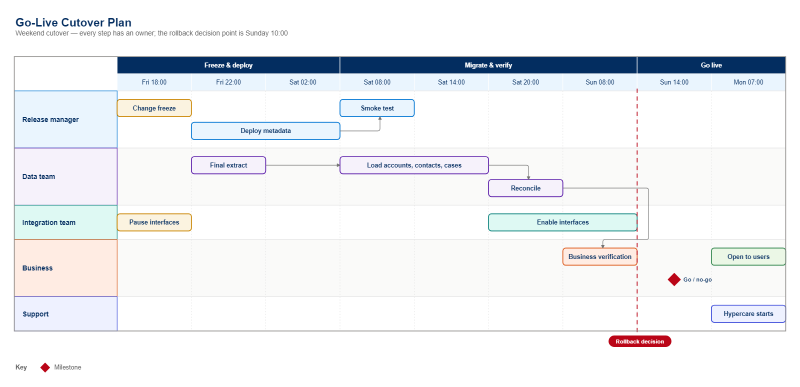
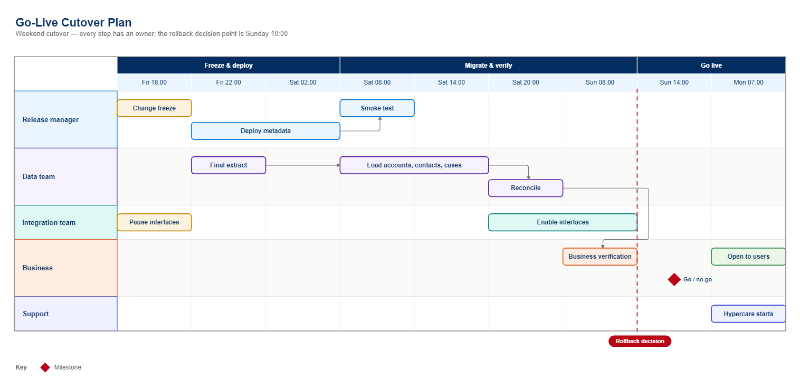
Site: archistry setup in install steps and agent tabs, header card and notation copy, phone previews for 9 types

diff --git a/index.html b/index.html
@@ -131,7 +131,7 @@
       <p class="lede">Built for Salesforce architects, business analysts and consultants.</p>
     </div>
     <div class="what-grid">
-      <article class="card what"><span class="what__n" aria-hidden="true">01</span><span class="ico" data-lottie="grid"><svg aria-hidden="true"><use href="#i-grid"/></svg></span><h3>Draw 49 diagram types</h3><p>From stakeholder maps to cutover plans, in the notation Salesforce teams use.</p><span class="what__tag">49 types · 11 layout engines</span></article>
+      <article class="card what"><span class="what__n" aria-hidden="true">01</span><span class="ico" data-lottie="grid"><svg aria-hidden="true"><use href="#i-grid"/></svg></span><h3>Draw 49 diagram types</h3><p>From stakeholder maps to cutover plans, with Salesforce Architects header cards and data-model notation.</p><span class="what__tag">49 types · 11 layout engines</span></article>
       <article class="card what"><span class="what__n" aria-hidden="true">02</span><span class="ico" data-lottie="edit"><svg aria-hidden="true"><use href="#i-pen"/></svg></span><h3>Edit in draw.io or the browser</h3><p>Each diagram is two files that convert into each other without loss.</p><span class="what__tag">.drawio + .html</span></article>
       <article class="card what"><span class="what__n" aria-hidden="true">03</span><span class="ico" data-lottie="image"><svg aria-hidden="true"><use href="#i-image"/></svg></span><h3>Export PNG, JPG and SVG</h3><p>Images for Word, Confluence, Google Docs and slides.</p><span class="what__tag">1× to 4× print</span></article>
       <article class="card what"><span class="what__n" aria-hidden="true">04</span><span class="ico" data-lottie="shield"><svg aria-hidden="true"><use href="#i-shield"/></svg></span><h3>Check every build</h3><p>Overlaps, lines through boxes and clipped labels fail the build.</p><span class="what__tag">Fails on overlap</span></article>
@@ -346,9 +346,10 @@
     </div>
     <div class="grid install-grid">
       <div class="panel" style="grid-column: span 5">
-        <h3 class="panel__t">Three steps</h3>
+        <h3 class="panel__t">Four steps</h3>
         <ol class="steps">
           <li class="step"><div><h3>Add the skill</h3><p>One command installs it into your agent. Update it the same way.</p></div></li>
+          <li class="step"><div><h3>Make it the default</h3><p>Run <code>archistry setup</code> once per project. It adds a short rule to CLAUDE.md, Copilot, AGENTS.md, Gemini, Cursor or Windsurf instructions.</p></div></li>
           <li class="step"><div><h3>Describe the diagram</h3><p>Name the type, the systems and who it is for.</p></div></li>
           <li class="step"><div><h3>Open the result</h3><p>Edit the HTML in your browser or the .drawio in draw.io.</p></div></li>
         </ol>
@@ -369,12 +370,14 @@
       <div class="faq-grid">
         <div>
           <details class="faq"><summary>How should I word a request?</summary><div>Name the diagram type, the systems or objects, and who it is for. Ask for an image if you need one. For example: “Draw the integration architecture for order to cash, with the protocol on every interface, and give me a PNG.”</div></details>
+          <details class="faq"><summary>My agent doesn’t pick it up. What now?</summary><div>Run <code>archistry setup</code> in the project. It adds a rule to the agent’s instructions (CLAUDE.md, Copilot, AGENTS.md, Gemini, Cursor or Windsurf) so every diagram request goes to Archistry. <code>--remove</code> takes it out again.</div></details>
           <details class="faq"><summary>Does it work without an AI agent?</summary><div>Yes. Run <code>archistry init solution-architecture -o arch.json</code> for a complete starter spec, edit it, then <code>archistry build arch.json --format drawio,html,png</code>.</div></details>
           <details class="faq"><summary>Does my data leave my machine?</summary><div>No. The build runs in Node on your machine, image export runs in your own headless browser, and the HTML output makes no network requests.</div></details>
         </div>
         <div>
           <details class="faq"><summary>Is it only for Salesforce?</summary><div>It is built and optimised for Salesforce work: the types, notation, icons and examples are all Salesforce. The engine itself is platform-neutral, so it can be adapted for other platforms.</div></details>
           <details class="faq"><summary>Can I use my company colours?</summary><div>Yes. Put a <code>brand.json</code> beside your spec. Palette and font follow your brand; notation such as crow’s feet and BPMN shapes stays standard.</div></details>
+          <details class="faq"><summary>Why does every diagram have a grey header?</summary><div>It is the header card from the Salesforce Architects kit of parts: the title and a one-line description on the left, the key on the right. Set <code>"header": "banner"</code> or <code>"header": "title"</code> in the spec for another style.</div></details>
           <details class="faq"><summary>How do I update it?</summary><div>Run <code>npx skills update</code> if you installed with <code>npx skills add</code>, or <code>git pull</code> inside the folder if you cloned it.</div></details>
         </div>
       </div>

diff --git a/assets/app.js b/assets/app.js
@@ -348,13 +348,14 @@
     var tabs = $('#agents'); if (!tabs) return;
     var clone = 'git clone https://github.com/abhishakec/archistry.git';
     var up = '\n\n# Update to a new release\n';
+    var def = '\n\n# Make it the default for diagrams in this project\n';
     var agents = [
-      { id: 'npx skills', note: 'Finds the agents on your machine (Claude Code, Copilot, Cursor, Gemini CLI, Codex and more) and installs for the ones you pick. Add -g to install for every project.', label: 'terminal', cmd: 'npx skills add abhishakec/archistry' + up + 'npx skills update' },
-      { id: 'Claude Code', note: 'Put the folder in ~/.claude/skills for all projects, or in .claude/skills inside one project. It triggers on diagram requests.', label: 'terminal', cmd: clone + ' ~/.claude/skills/archistry\nnode ~/.claude/skills/archistry/scripts/archistry.mjs doctor' + up + 'git -C ~/.claude/skills/archistry pull' },
-      { id: 'Desktop', note: 'Clone the folder, then add it as a skill. It triggers the same way.', label: 'terminal', cmd: clone + '\nnode archistry/scripts/archistry.mjs doctor' + up + 'git -C archistry pull' },
-      { id: 'Copilot', note: 'Clone it into your repository and add one line to the Copilot instructions.', label: 'terminal', cmd: clone + ' archistry\necho "For any Salesforce diagram request, follow archistry/SKILL.md." >> .github/copilot-instructions.md' + up + 'git -C archistry pull' },
-      { id: 'Cursor', note: 'Clone it and add a rule that points at SKILL.md.', label: 'terminal', cmd: clone + ' archistry\n# Cursor rule: "For any Salesforce diagram request, follow archistry/SKILL.md."' + up + 'git -C archistry pull' },
-      { id: 'Gemini, Codex', note: 'Point the agent at SKILL.md. Any agent that can read files and run node can use it.', label: 'terminal', cmd: clone + ' archistry\nnode archistry/scripts/archistry.mjs doctor' + up + 'git -C archistry pull' }
+      { id: 'npx skills', note: 'Finds the agents on your machine (Claude Code, Copilot, Cursor, Gemini CLI, Codex and more) and installs for the ones you pick. Add -g to install for every project. Then run setup once per project so every diagram request goes to Archistry.', label: 'terminal', cmd: 'npx skills add abhishakec/archistry' + def + '# (path for Claude Code; use the folder npx installed into for other agents)\nnode .claude/skills/archistry/scripts/archistry.mjs setup' + up + 'npx skills update' },
+      { id: 'Claude Code', note: 'Put the folder in ~/.claude/skills for all projects, or in .claude/skills inside one project. Setup adds a short rule to CLAUDE.md so diagram requests always use it.', label: 'terminal', cmd: clone + ' ~/.claude/skills/archistry\nnode ~/.claude/skills/archistry/scripts/archistry.mjs doctor' + def + 'node ~/.claude/skills/archistry/scripts/archistry.mjs setup --harness claude' + up + 'git -C ~/.claude/skills/archistry pull' },
+      { id: 'Desktop', note: 'Clone the folder, then add it as a skill. It triggers on diagram requests.', label: 'terminal', cmd: clone + '\nnode archistry/scripts/archistry.mjs doctor' + up + 'git -C archistry pull' },
+      { id: 'Copilot', note: 'Clone it into your repository. Setup writes the rule to .github/copilot-instructions.md, between markers it can refresh or remove.', label: 'terminal', cmd: clone + ' archistry\nnode archistry/scripts/archistry.mjs setup --harness copilot' + up + 'git -C archistry pull' },
+      { id: 'Cursor', note: 'Clone it into your project. Setup adds an always-on rule in .cursor/rules/archistry.mdc and the AGENTS.md block.', label: 'terminal', cmd: clone + ' archistry\nnode archistry/scripts/archistry.mjs setup --harness cursor,agents' + up + 'git -C archistry pull' },
+      { id: 'Gemini, Codex', note: 'Any agent that can read files and run node can use it. Setup writes the rule to GEMINI.md and AGENTS.md.', label: 'terminal', cmd: clone + ' archistry\nnode archistry/scripts/archistry.mjs setup --harness gemini,agents' + up + 'git -C archistry pull' }
     ];
     tabs.innerHTML = agents.map(function (a, i) { return '<button class="tab" type="button" role="tab" id="ag' + i + '" aria-selected="' + (i === 0) + '" aria-controls="agent-panel" tabindex="' + (i === 0 ? 0 : -1) + '">' + esc(a.id) + '</button>'; }).join('');
     var panel = $('#agent-panel');
